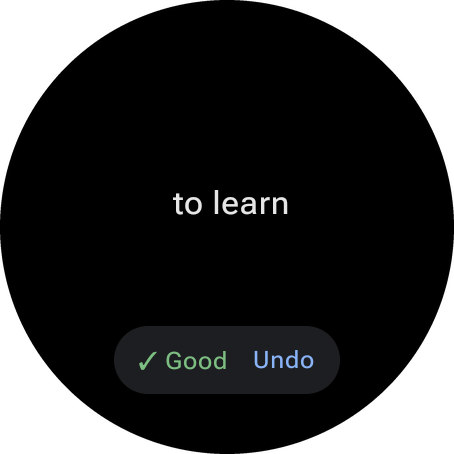
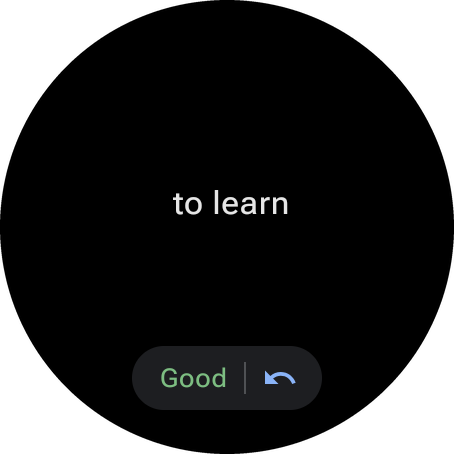
Rating toast in one row (word + undo arrow), drop leading glyphs from rating labels; confirm-exit off by default; refresh undo screenshot

Changed region(s): [[0.2467, 0.7093, 0.7709, 0.9251]]

diff --git a/app/src/main/java/de/mcdax/wristcards/ReviewScreen.kt b/app/src/main/java/de/mcdax/wristcards/ReviewScreen.kt
@@ -10,11 +10,13 @@ import androidx.compose.foundation.layout.Arrangement
 import androidx.compose.foundation.layout.Box
 import androidx.compose.foundation.layout.Column
 import androidx.compose.foundation.layout.Row
+import androidx.compose.foundation.layout.fillMaxHeight
 import androidx.compose.foundation.layout.fillMaxSize
 import androidx.compose.foundation.layout.fillMaxWidth
 import androidx.compose.foundation.layout.height
 import androidx.compose.foundation.layout.heightIn
 import androidx.compose.foundation.layout.padding
+import androidx.compose.foundation.layout.size
 import androidx.compose.foundation.layout.width
 import androidx.compose.foundation.layout.widthIn
 import androidx.compose.foundation.rememberScrollState
@@ -43,6 +45,7 @@ import androidx.compose.ui.input.pointer.positionChange
 import androidx.compose.ui.platform.LocalConfiguration
 import androidx.compose.ui.platform.LocalContext
 import androidx.compose.ui.platform.LocalDensity
+import androidx.compose.ui.res.painterResource
 import androidx.compose.ui.res.stringResource
 import androidx.compose.ui.text.font.FontWeight
 import androidx.compose.ui.text.style.TextAlign
@@ -51,6 +54,7 @@ import androidx.compose.ui.unit.dp
 import androidx.compose.ui.unit.sp
 import androidx.wear.compose.foundation.rotary.RotaryScrollableDefaults
 import androidx.wear.compose.foundation.rotary.rotaryScrollable
+import androidx.wear.compose.material3.Icon
 import androidx.wear.compose.material3.Text
 import anki.decks.DeckTreeNode
 import anki.scheduler.CardAnswer
@@ -393,44 +397,47 @@ internal fun ReviewScreen(repo: AnkiRepository, deck: DeckTreeNode?, previewCard
             visible = ratedNote != null,
             enter = androidx.compose.animation.fadeIn(),
             exit = androidx.compose.animation.fadeOut(),
-            // At the bottom: after rating, the next card is hidden, so there are no buttons there.
-            // Somewhat higher where the round screen is wide enough.
-            // Low on the screen, below the card text; the stacked toast is narrow enough for the round edge.
-            modifier = Modifier.align(Alignment.BottomCenter).padding(bottom = 18.dp),
+            // Low on the screen, below the card text: after rating, the next card is hidden, so there are no
+            // buttons there. The single-row pill is narrow enough for the round edge.
+            modifier = Modifier.align(Alignment.BottomCenter).padding(bottom = 22.dp),
         ) {
             val note = ratedNote
             if (note != null) {
-                // One below the other instead of side by side: at the bottom of the round display it is too narrow for both in one row.
-                Column(
-                    horizontalAlignment = Alignment.CenterHorizontally,
+                // One row: rating word, divider, undo arrow. The word alone would not fit next to
+                // "Undo" spelled out at the bottom of the round display, so the arrow carries the action.
+                Row(
+                    verticalAlignment = Alignment.CenterVertically,
                     modifier = Modifier
                         .widthIn(max = TOAST_MAX_WIDTH)
-                        .clip(RoundedCornerShape(16.dp))
-                        .background(c.surface.copy(alpha = 0.97f))
-                        .padding(top = 6.dp, bottom = 2.dp),
+                        .height(32.dp)
+                        .clip(RoundedCornerShape(50))
+                        .background(c.surface.copy(alpha = 0.97f)),
                 ) {
                     Text(
                         note.text,
                         color = note.color,
-                        fontSize = 12.sp,
-                        lineHeight = 15.sp,
+                        fontSize = 13.sp,
                         fontWeight = FontWeight.Medium,
-                        textAlign = TextAlign.Center,
                         maxLines = 1,
                         overflow = TextOverflow.Ellipsis,
-                        modifier = Modifier.padding(horizontal = 12.dp),
+                        modifier = Modifier.weight(1f, fill = false).padding(start = 14.dp, end = 8.dp),
                     )
-                    Text(
-                        stringResource(R.string.undo),
-                        color = c.accent,
-                        fontSize = 12.sp,
-                        fontWeight = FontWeight.Medium,
-                        maxLines = 1,
+                    Box(Modifier.width(1.dp).height(16.dp).background(c.textDim.copy(alpha = 0.4f)))
+                    val undoLabel = stringResource(R.string.undo)
+                    Box(
+                        contentAlignment = Alignment.Center,
                         modifier = Modifier
-                            .clip(RoundedCornerShape(50))
-                            .clickable { undo(note) }
-                            .padding(horizontal = 12.dp, vertical = 6.dp),
-                    )
+                            .fillMaxHeight()
+                            .clickable(onClickLabel = undoLabel) { undo(note) }
+                            .padding(start = 8.dp, end = 12.dp),
+                    ) {
+                        Icon(
+                            painterResource(R.drawable.ic_undo),
+                            contentDescription = undoLabel,
+                            tint = c.accent,
+                            modifier = Modifier.size(18.dp),
+                        )
+                    }
                 }
             }
         }

diff --git a/app/src/main/java/de/mcdax/wristcards/Settings.kt b/app/src/main/java/de/mcdax/wristcards/Settings.kt
@@ -52,7 +52,7 @@ data class AppSettings(
     val mediaMode: MediaMode = MediaMode.ALL,
     // Deck list
     // Leaving the app only with a second back (button or swipe)
-    val confirmExit: Boolean = true,
+    val confirmExit: Boolean = false,
     val hideEmptyDecks: Boolean = false,
     // "New · Learning · Due" row above the decks
     val showLegend: Boolean = true,
